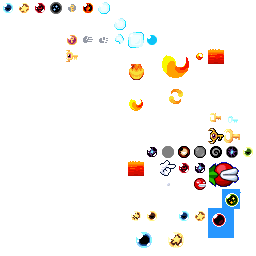
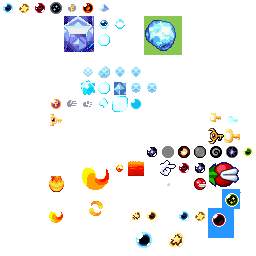
ice in progress

diff --git a/Leore/Objects/Projectiles/BoomerangProjectile.cs b/Leore/Objects/Projectiles/BoomerangProjectile.cs
@@ -35,17 +35,16 @@ namespace Leore.Objects.Projectiles
         private float maxVel;
         private float maxDist;
 
-        //private float degAngle;
-        //private float angSpd;
+        private float scale;
 
         private Vector2 originalPosition;
 
         private int cooldown;
 
-        IceEmitter emitter;
+        private IceEmitter emitter;
 
-        int lifeTime;
-        int maxLifeTime;
+        private int lifeTime;
+        private int maxLifeTime;
 
         private BoomerangProjectile(float x, float y, Orb orb, float angle) : base(x, y, orb.Level)
         {
@@ -56,22 +55,25 @@ namespace Leore.Objects.Projectiles
             AnimationTexture = AssetManager.Projectiles;
 
             Element = SpellElement.ICE;
-
+            
             Depth = orb.Depth + .0002f;
             BoundingBox = new RectF(-4, -4, 8, 8);
             DrawOffset = new Vector2(8);
             
-            Scale = new Vector2((int)player.Direction, 1);
-            light = new LightSource(this) { Active = true, Scale = new Vector2(.45f) };
+            Scale = new Vector2((int)player.Direction * scale, scale);
+            light = new LightSource(this) { Active = true, Scale = new Vector2(scale * .45f) };
 
             emitter = new IceEmitter(X, Y);
             emitter.Active = true;
             emitter.Depth = Depth - .0001f;
 
             originalPosition = Position;
-            
+
+            scale = 1f;
+
             spd = 0;
             maxDist = 48;
+            acc = .01f;
 
             maxLifeTime = 5 * 60;
             lifeTime = maxLifeTime;
@@ -80,40 +82,17 @@ namespace Leore.Objects.Projectiles
             {
                 case SpellLevel.ONE:
                     maxDist = 48;                    
-                    acc = .01f;
                     maxVel = 3.5f;
-                    //angSpd = 10f;
                     break;
-                case SpellLevel.TWO:                    
-                    acc = .01f;
+                case SpellLevel.TWO:
                     maxVel = 3.5f;
                     maxDist = 64;
-                    //angSpd = 15f;
                     break;
                 case SpellLevel.THREE:                    
-                    acc = .01f;
                     maxVel = 3.5f;
-                    maxDist = 64;
-                    //angSpd = 25f;
+                    maxDist = 64;                    
                     break;
             }
-
-            //var ang = 0;
-
-            //if (player.Direction == Direction.LEFT && player.LookDirection == Direction.UP) ang = 180 + 45;
-            //if (player.Direction == Direction.LEFT && player.LookDirection == Direction.NONE) ang = 180;
-            //if (player.Direction == Direction.LEFT && player.LookDirection == Direction.DOWN) ang = 180 - 45;
-            //if (player.Direction == Direction.RIGHT && player.LookDirection == Direction.UP) ang = 0 - 45;
-            //if (player.Direction == Direction.RIGHT && player.LookDirection == Direction.NONE) ang = 0;
-            //if (player.Direction == Direction.RIGHT && player.LookDirection == Direction.DOWN) ang = 0 + 45;
-
-            //angSpd = Math.Sign((int)player.Direction) * Math.Abs(angSpd);
-            
-            //XVel = .9f * player.XVel + (float)MathUtil.LengthDirX(ang) * s;
-            //YVel = .3f * player.YVel + (float)MathUtil.LengthDirY(ang) * s;
-
-            //if (player.LookDirection == Direction.UP)
-            //    Angle = (float)MathUtil.DegToRad(player.Direction == Direction.LEFT ? 45 : -45);
 
             XVel = (float)MathUtil.LengthDirX(angle) * maxVel;
             YVel = (float)MathUtil.LengthDirY(angle) * maxVel;
@@ -126,6 +105,8 @@ namespace Leore.Objects.Projectiles
                 Instances[0].player.MP += GameResources.MPCost[Instances[0].orb.Type][Instances[0].orb.Level];
                 return;
             }
+
+            orb.Visible = false;
 
             var angle = (float)MathUtil.VectorToAngle(new Vector2(orb.TargetPosition.X - x, orb.TargetPosition.Y - y));
 
@@ -150,6 +131,11 @@ namespace Leore.Objects.Projectiles
         {
             Instances.Remove(this);
             
+            if(Instances.Count == 0)
+            {
+                orb.Visible = true;
+            }
+
             FadeOutLight.Create(this, light.Scale);
             light.Parent = null;
             light.Destroy();
@@ -165,7 +151,7 @@ namespace Leore.Objects.Projectiles
         {
             base.Update(gameTime);
 
-            emitter.Position = orb.Position;
+            emitter.Position = player.Position;
             emitter.SpawnPosition = Position;
             
             cooldown = Math.Max(cooldown - 1, 0);
@@ -173,7 +159,6 @@ namespace Leore.Objects.Projectiles
                 Damage = 0;
             else
             {
-                //Damage = (orb.Level == SpellLevel.ONE) ? 2 : (orb.Level == SpellLevel.TWO) ? 2 : 3;
                 Damage = (lifeTime > 0) ? 1 : 0;
             }
 
@@ -182,23 +167,7 @@ namespace Leore.Objects.Projectiles
                 HeadBack();
                 lifeTime = 0;
             }
-
-            //if (touchedPlayer)
-            //{
-            //    if (MathUtil.Euclidean(Position, originalPosition) > Globals.T)
-            //    {
-            //        touchedPlayer = false;
-            //    }
-            //}
-            //else {
-            //    if ((this.CollisionBounds(orb, X, Y)/* || this.CollisionBounds(player, X, Y)*/) && orb.State != OrbState.ATTACK)
-            //    {
-            //        //FinishUp();
-            //        //return;
-            //        lifeTime = 0;
-            //    }
-            //}
-
+            
             if (MathUtil.Euclidean(Position, originalPosition) >= maxDist)
             {
                 HeadBack();
@@ -218,67 +187,7 @@ namespace Leore.Objects.Projectiles
             {
                 coin.Take(player);
             }
-
-            //if (true)
-            //{
-            //    foreach(var other in Instances)
-            //    {
-            //        if (other == this) continue;
-
-            //        if(this.CollisionBounds(other, X, Y))
-            //        {
-            //            var kb = MathUtil.VectorToAngle(new Vector2(X - other.X, Y - other.Y));
-            //            XVel += 1.5f * (float)MathUtil.LengthDirX(kb);
-            //            YVel += 1.5f * (float)MathUtil.LengthDirY(kb);
-            //        }
-            //    }
-            //}
-
-            //if (key == null)
-            //{
-            //    // let's not give this spell the power to collect keys..
-            //    //key = this.CollisionBoundsFirstOrDefault<Key>(X, Y);
-
-            //    //if (key != null)
-            //    //{
-            //    //    key.Destroy();
-            //    //    HeadBack();
-            //    //}
-
-            //    //if (player.HasAtLeastOneKey())
-            //    //{
-            //    //    var keyBlock = this.CollisionBoundsFirstOrDefault<KeyBlock>(X, Y);
-            //    //    if (keyBlock != null && !keyBlock.Unlocked)
-            //    //    {
-            //    //        new SingularEffect(keyBlock.Center.X, keyBlock.Center.Y, 9);
-            //    //        keyBlock.Unlock(keyBlock.Center.X, keyBlock.Center.Y);
-            //    //        player.UseKeyFromInventory();
-            //    //        HeadBack();
-            //    //    }
-            //    //}
-            //}
-
-            ////if (!headBack)
-            ////{
-            ////    //var laser = this.CollisionBoundsFirstOrDefault<LaserObstacle>(X, Y);
-            ////    //if (laser != null)
-            ////    //{
-            ////    //    new StarEmitter(X, Y, 5);
-            ////    //    HeadBack();
-            ////    //}
-            ////}
-            ////else
-            ////{
-            ////    //if (orb.State != OrbState.ATTACK)
-            ////    //{
-            ////    //    var dist = MathUtil.Euclidean(Position, player.Position);
-            ////    //    if (dist < 8)
-            ////    //    {
-            ////    //        FinishUp();
-            ////    //    }
-            ////    //}
-            ////}
-
+            
             lifeTime = Math.Max(lifeTime - 1, 0);
             if (lifeTime == 0)
             {
@@ -291,12 +200,9 @@ namespace Leore.Objects.Projectiles
 
             Move(XVel, YVel);
             Move(.5f * player.XVel, .5f * player.YVel);
+            
+            Scale = new Vector2((XVel < 0) ? -scale : scale, scale);
 
-            //degAngle = (degAngle + angSpd) % 360;
-            //Angle = (float)MathUtil.DegToRad(degAngle);            
-            //Angle = (float)MathUtil.VectorToAngle(new Vector2(XVel, YVel), true);
-
-            Scale = new Vector2((XVel < 0) ? -1 : 1, 1);
             SetAnimation(15, 16, .3f, true);
         }
 
@@ -332,6 +238,8 @@ namespace Leore.Objects.Projectiles
         public override void Draw(SpriteBatch sb, GameTime gameTime)
         {
             base.Draw(sb, gameTime);
+
+            sb.Draw(AssetManager.Projectiles[17], orb.Position, null, Color, 0, new Vector2(8), Vector2.One, SpriteEffects.None, Depth);
 
             if (key != null)
             {

diff --git a/Leore/Main/Player.cs b/Leore/Main/Player.cs
@@ -2314,7 +2314,10 @@ namespace Leore.Main
                 //}
 
                 jumps = 0;
-                if (!onGround && yVelBeforeCollision > Gravity && !inWater && State != PlayerState.BACKFACING)
+                if (!onGround && yVelBeforeCollision > Gravity && !inWater 
+                    && State != PlayerState.BACKFACING 
+                    && State != PlayerState.WALL_CLIMB 
+                    && State != PlayerState.WALL_IDLE)
                 {
                     new SingularEffect(X + XVel, Y, 12);
                 }

diff --git a/Leore/Objects/Effects/Emitters/IceEmitter.cs b/Leore/Objects/Effects/Emitters/IceEmitter.cs
@@ -33,7 +33,8 @@ namespace Leore.Objects.Effects.Emitters
 
             //Texture = AssetManager.Particles[(int)frame];
 
-            Alpha = LifeTime / 60f;
+            var t = (LifeTime / 60f);
+            Alpha = (float)Math.Sin(t * Math.PI) * .5f;
 
             Scale = new Vector2(.5f + (LifeTime / 60f) * .5f);
 
